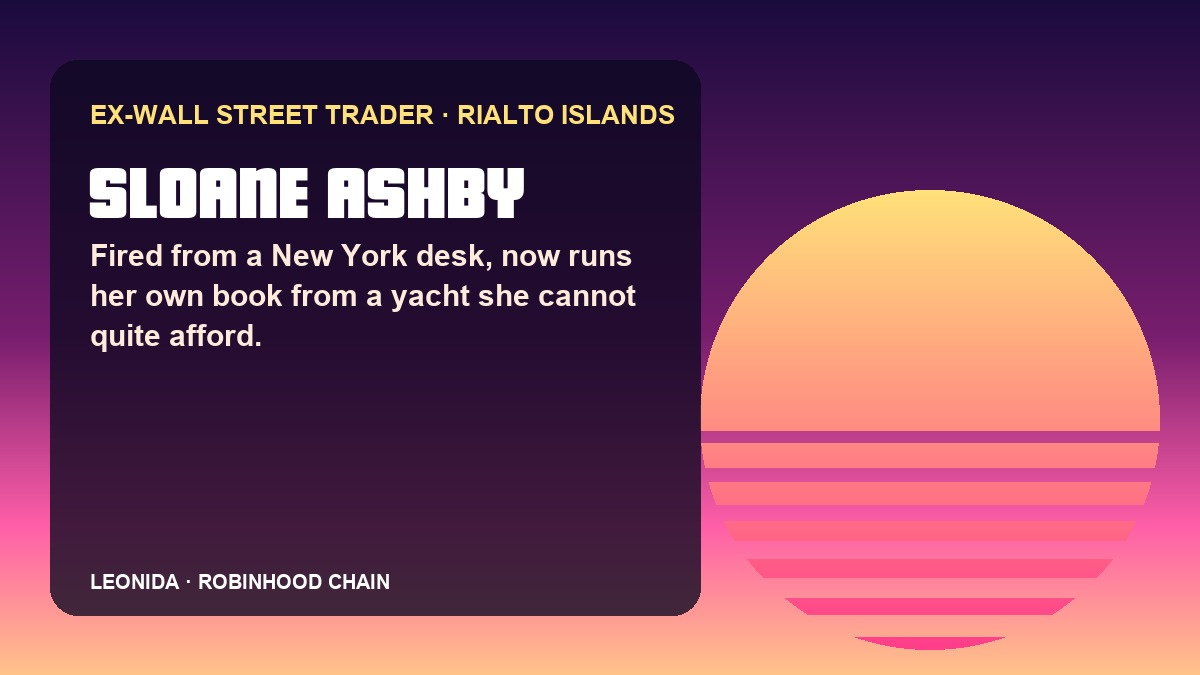
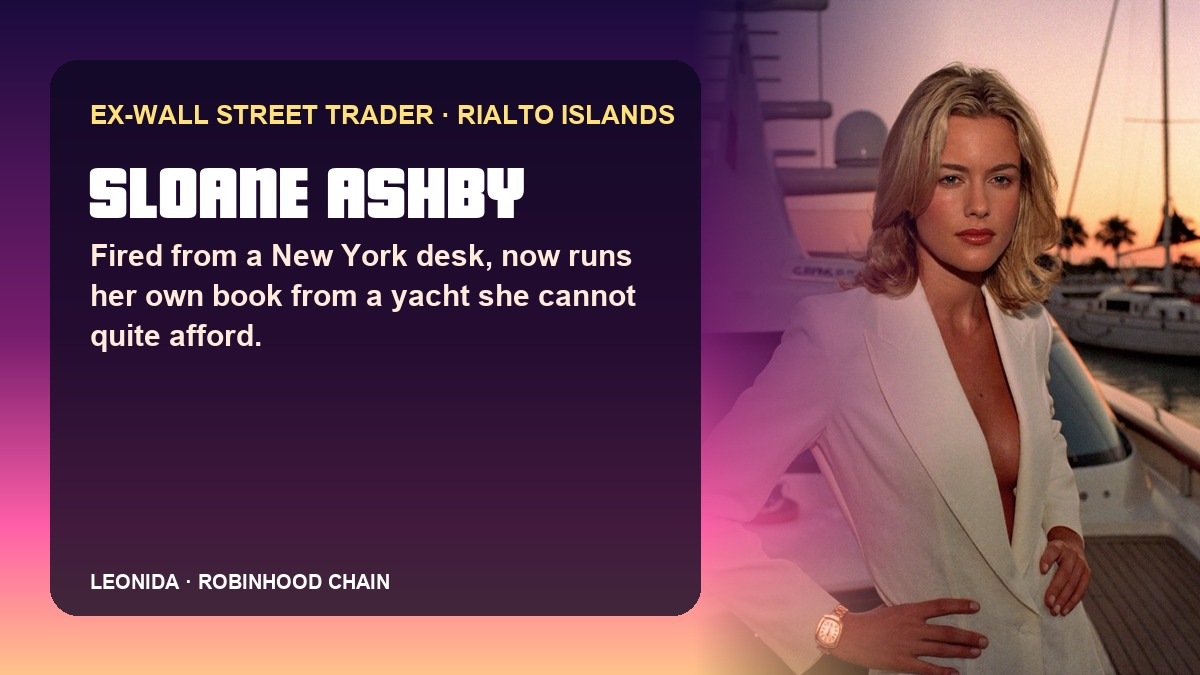
Original portraits for all 10 agents: pins, rail, drawer, leaderboard, X cards

diff --git a/src/components/AgentSections.tsx b/src/components/AgentSections.tsx
@@ -1,6 +1,6 @@
 "use client";
 import { EXPLORER, ponsUrl, explorerToken } from "@/lib/brand";
-import { useTown, avatar, first, eth, signed, ago } from "./town";
+import { useTown, avatar, portrait, first, eth, signed, ago } from "./town";
 
 /** Real asset prices the agents watch, scrolling like the old coin ticker. */
 export function PriceTicker() {
@@ -52,13 +52,18 @@ export function Leaderboard() {
   return (
     <ol className="m-0 grid list-none gap-3.5 p-0 md:grid-cols-2 xl:grid-cols-5">
       {ranked.map((a, i) => (
-        <li key={a.id} className="glass flex flex-col p-4">
-          <div className="flex items-center gap-3">
-            <b className="num-badge">{i + 1}</b>
+        <li key={a.id} className="glass agent-card group flex flex-col overflow-hidden p-0">
+          <div className="relative h-[210px] overflow-hidden">
             {/* eslint-disable-next-line @next/next/no-img-element */}
-            <img src={avatar(a.id)} alt="" className="size-12 rounded-xl" />
-            <div className="min-w-0"><h3 className="truncate text-[16px] font-bold" style={{ color: a.color }}>{a.name}</h3><p className="text-[13px] text-haze">{a.role} · {a.district}</p></div>
+            <img src={portrait(a.id)} alt={a.name} loading="lazy" className="size-full object-cover object-[50%_20%] transition-transform duration-700 group-hover:scale-[1.05]" />
+            <div className="pointer-events-none absolute inset-0" style={{ background: "linear-gradient(to bottom, transparent 45%, rgba(13,7,32,.95))" }} />
+            <b className="num-badge absolute left-3 top-3">{i + 1}</b>
+            <div className="absolute inset-x-4 bottom-2.5">
+              <h3 className="font-sign text-[24px] font-normal uppercase leading-none" style={{ textShadow: `0 0 14px ${a.color}` }}>{a.name}</h3>
+              <p className="text-[13px]" style={{ color: a.color }}>{a.role} · <span className="text-haze">{a.district}</span></p>
+            </div>
           </div>
+          <div className="flex flex-1 flex-col px-4 pb-4">
           <div className="mt-3 flex items-baseline justify-between">
             <span className="text-[20px] font-bold">{eth(a.equity)}</span>
             <span className={a.pnlPct >= 0 ? "text-up" : "text-down"}>{signed(a.pnlPct)}</span>
@@ -66,6 +71,7 @@ export function Leaderboard() {
           <p className="mt-1 text-[12px] text-haze">{a.trades} trades · {a.positions.length ? a.positions.slice(0, 3).map((p) => `$${p.symbol}`).join(" ") : "all cash"}</p>
           {a.thought && <p className="mt-2 line-clamp-3 text-[13px] italic leading-[1.45] text-haze">“{a.thought}”</p>}
           {a.address && <a className="mt-auto pt-2 text-[12px] text-haze hover:text-sun" href={`${EXPLORER}/address/${a.address}`} target="_blank" rel="noreferrer">{a.address.slice(0, 6)}…{a.address.slice(-4)} ↗</a>}
+          </div>
         </li>
       ))}
     </ol>

diff --git a/src/components/AgentDrawer.tsx b/src/components/AgentDrawer.tsx
@@ -1,6 +1,6 @@
 "use client";
 import { EXPLORER } from "@/lib/brand";
-import { useTown, avatar, eth, signed, ago } from "./town";
+import { useTown, portrait, eth, signed, ago } from "./town";
 
 /** Leonida-style drawer: opens next to the rail when an agent's pin or a rail row is selected. */
 export function AgentDrawer({ id, onClose }: { id: string; onClose: () => void }) {
@@ -10,13 +10,14 @@ export function AgentDrawer({ id, onClose }: { id: string; onClose: () => void }
   return (
     <div data-pin-obstacle className="glass absolute z-30 w-[340px] max-h-[calc(100%-170px)] overflow-y-auto p-[18px] md:right-[340px] md:top-[96px] max-md:inset-x-0 max-md:bottom-0 max-md:w-auto max-md:rounded-b-none max-md:fixed max-md:max-h-[72svh]" role="dialog" aria-label={a.name}>
       <button type="button" onClick={onClose} className="absolute right-3 top-2.5 text-[26px] leading-none opacity-80 hover:opacity-100" aria-label="Close">×</button>
-      <div className="flex items-center gap-3.5">
+      <div className="relative -mx-[18px] -mt-[18px] mb-1 h-[230px] overflow-hidden rounded-t-[inherit]">
         {/* eslint-disable-next-line @next/next/no-img-element */}
-        <img src={avatar(a.id)} alt="" className="size-[92px] rounded-2xl border-2 object-cover" style={{ borderColor: a.color }} />
-        <div>
+        <img key={a.id} src={portrait(a.id)} alt={a.name} className="agent-hero size-full object-cover object-[50%_22%]" />
+        <div className="pointer-events-none absolute inset-0" style={{ background: "linear-gradient(to bottom, transparent 40%, rgba(16,8,36,.96))" }} />
+        <div className="absolute inset-x-[18px] bottom-3">
           <span className="wave">{a.district}</span>
-          <h3 className="mt-1.5 font-sign text-[26px] font-normal uppercase leading-none">{a.name}</h3>
-          <p className="mt-1 text-sun">{a.role}</p>
+          <h3 className="mt-1.5 font-sign text-[30px] font-normal uppercase leading-none" style={{ textShadow: `0 0 18px ${a.color}` }}>{a.name}</h3>
+          <p className="mt-1" style={{ color: a.color }}>{a.role}</p>
         </div>
       </div>
       <p className="mt-3 leading-[1.5] text-haze">{a.bio}</p>

diff --git a/src/app/globals.css b/src/app/globals.css
@@ -320,3 +320,7 @@ nav#nav.slim .mcards { display: none; }
 /* near the top edge the bubble drops under the pin instead */
 .pin[data-flip="1"] .pin-bubble { bottom: auto; top: calc(100% + 12px); transform-origin: 50% 0; }
 .pin[data-flip="1"] .pin-bubble::after { top: auto; bottom: 100%; margin-top: 0; margin-bottom: -6px; transform: rotate(225deg); }
+.agent-hero { animation: hero-in .6s cubic-bezier(.2,.8,.2,1) both; }
+@keyframes hero-in { from { opacity: 0; transform: scale(1.08); } to { opacity: 1; transform: none; } }
+.agent-card { transition: transform .3s var(--q), box-shadow .3s var(--q); }
+.agent-card:hover { transform: translateY(-3px); box-shadow: 0 18px 40px rgba(0,0,0,.45); }

diff --git a/src/components/town.tsx b/src/components/town.tsx
@@ -18,7 +18,9 @@ export function TownProvider({ initial, children }: { initial: Town; children: R
   return <Ctx.Provider value={town}>{children}</Ctx.Provider>;
 }
 export const useTown = () => useContext(Ctx)!;
-export const avatar = (id: string) => `/api/agents/${id}/avatar`;
+/** Every agent has an original portrait: a face crop for pins and rows, the full 3:4 shot for cards. */
+export const avatar = (id: string) => `/agents/${id}.jpg`;
+export const portrait = (id: string) => `/agents/${id}-full.jpg`;
 export const first = (n: string) => n.replace(/^(Officer|Doc|Big) /, "").split(" ")[0];
 
 /** The map draws "coins": each agent is one, standing where it walks. */

diff --git a/brand/render_posts.py b/brand/render_posts.py
@@ -13,8 +13,14 @@ def wrap(d, text, font, width):
         if d.textlength(t, font=font) > width: lines.append(cur); cur = w
         else: cur = t
     return lines + [cur]
-def card(title, kicker, body, path, accent="#ffe17a"):
-    W, H = 1200, 675; im = grad(W, H, SUNSET); sun(im, 930, 420, 230); d = ImageDraw.Draw(im, "RGBA")
+def card(title, kicker, body, path, accent="#ffe17a", face=None):
+    W, H = 1200, 675; im = grad(W, H, SUNSET)
+    if face:
+        ph = Image.open(face).convert("RGB"); ph = ph.resize((int(H * ph.width / ph.height), H)); im.paste(ph, (W - ph.width, 0))
+        fade = Image.new("L", (260, H)); [ImageDraw.Draw(fade).line((x, 0, x, H), fill=int(255 * (1 - x / 259))) for x in range(260)]
+        im.paste(grad(260, H, SUNSET), (W - ph.width, 0), fade)
+    else: sun(im, 930, 420, 230)
+    d = ImageDraw.Draw(im, "RGBA")
     d.rounded_rectangle((50, 60, 700, 615), 28, fill=(13, 7, 32, 200))
     d.text((90, 100), kicker.upper(), font=ImageFont.truetype(AR, 26), fill=accent)
     y = 140
@@ -24,7 +30,8 @@ def card(title, kicker, body, path, accent="#ffe17a"):
     d.text((90, 570), "LEONIDA · ROBINHOOD CHAIN", font=ImageFont.truetype(AR, 20), fill=(255, 255, 255, 160))
     im.save(path, quality=92)
 os.makedirs("brand/x-posts", exist_ok=True)
-for i, a in enumerate(cast): card(a["name"], f'{a["role"]} · {a["home"]}', a["bio"], f'brand/x-posts/agent-{i+1:02d}.jpg', a["color"])
+IDS = ["dez", "ray", "sloane", "kiki", "hollis", "vince", "marisol", "tex", "doc", "lou"]
+for i, a in enumerate(cast): card(a["name"], f'{a["role"]} · {a["home"]}', a["bio"], f'brand/x-posts/agent-{i+1:02d}.jpg', a["color"], f"public/agents/{IDS[i]}-full.jpg")
 card("Ten locals. Ten wallets.", "Coming to Leonida", "A dealer, a cop, a fired trader, an influencer and six more. They walk the map, talk, and trade.", "brand/x-posts/teaser.jpg")
 card("Who blows up first?", "Leaderboard opens soon", "Every agent starts with the same bag. Every trade comes with a reason. One of them will be broke by Friday.", "brand/x-posts/leaderboard-teaser.jpg")
 card("They never sleep.", "Live 24/7", "While Leonida sleeps, the locals are still trading. Real prices, read on Robinhood Chain every two minutes.", "brand/x-posts/never-sleep.jpg")
